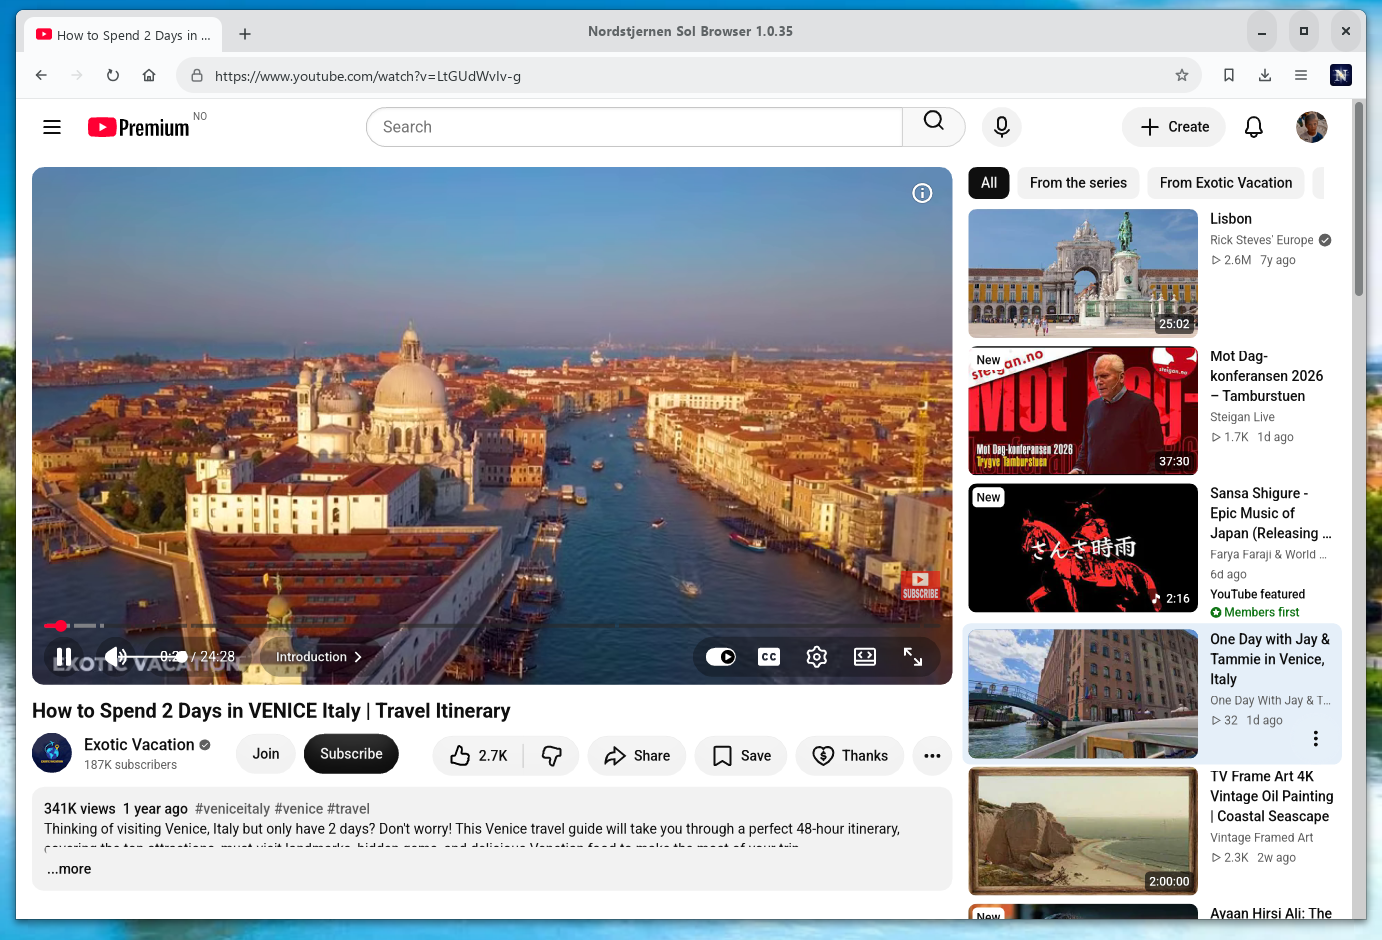
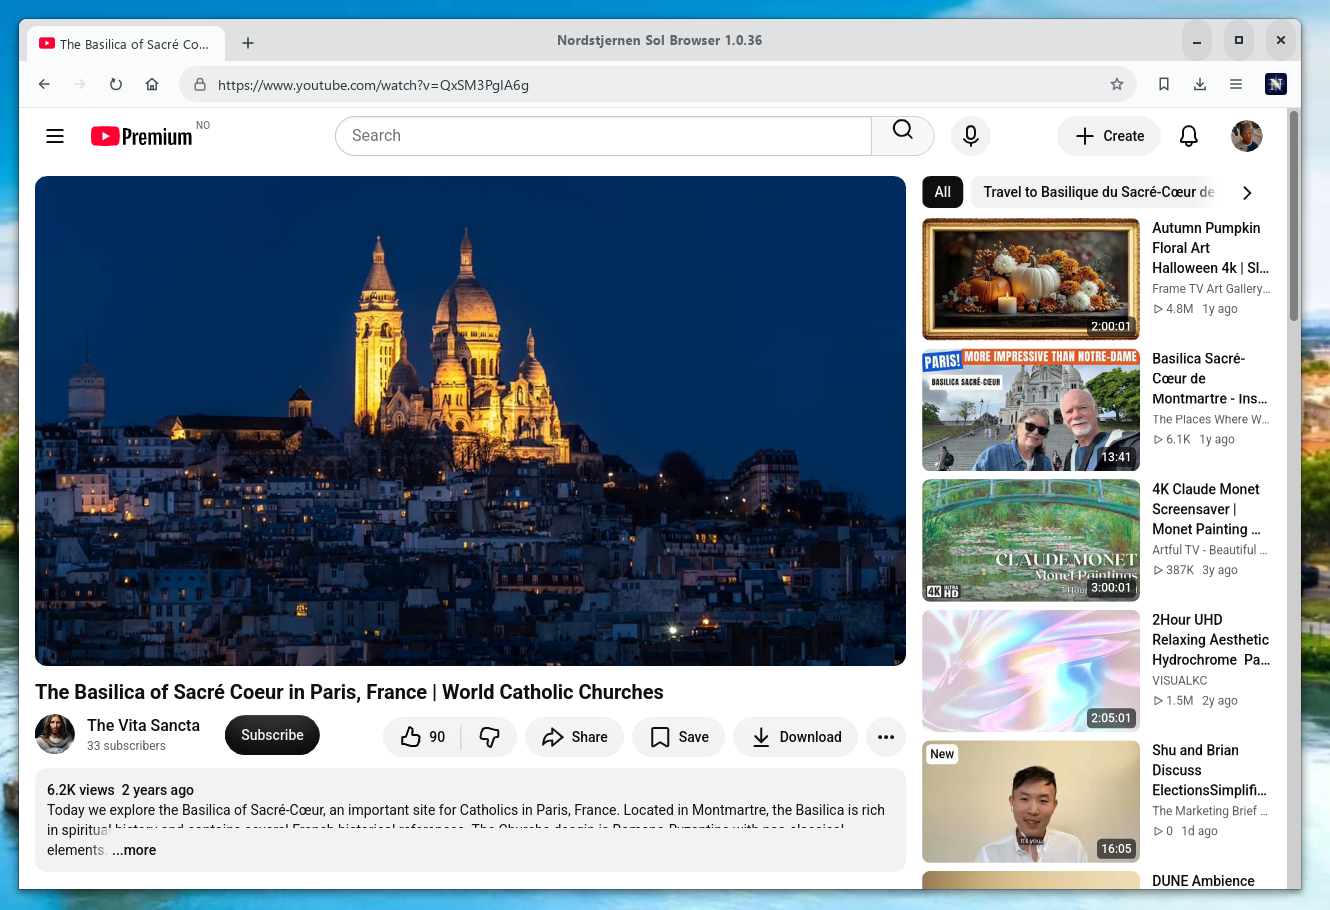
README: update the screenshot for 1.0.36
The new screenshot shows Nordstjernen Sol 1.0.36 playing a YouTube
video. The alt text now describes it.

diff --git a/README.md b/README.md
@@ -5,7 +5,7 @@ Nordstjernen (aka "Sol browser", shipped as **Nordstjernen Sol**) is a web
 browser written from scratch in C, focused on support for modern HTML, CSS
 and JavaScript standards.
 
-![Nordstjernen showing a Wikipedia article in the light theme](docs/screenshot.png)
+![Nordstjernen 1.0.36 playing a YouTube video](docs/screenshot.png)
 
 Supported platforms:
 * [Windows](https://apps.microsoft.com/detail/9nw8t7w5z4pl)
